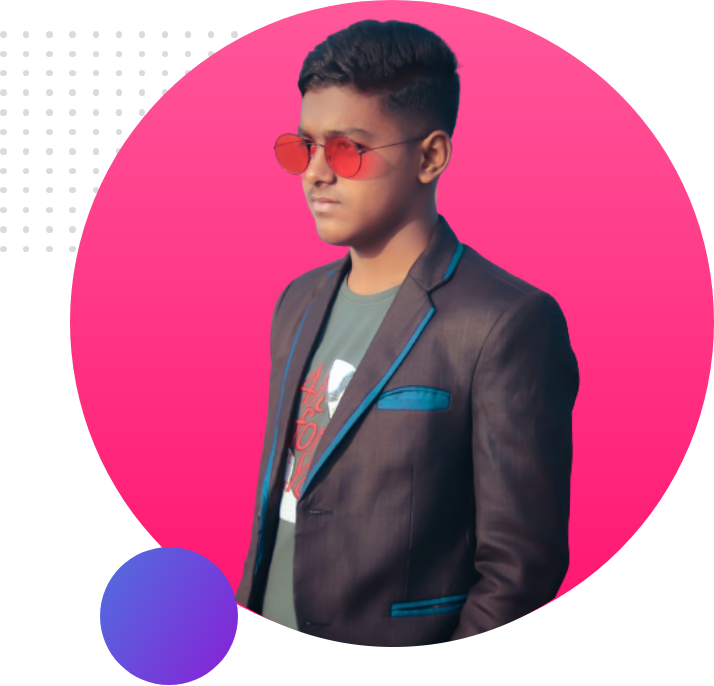
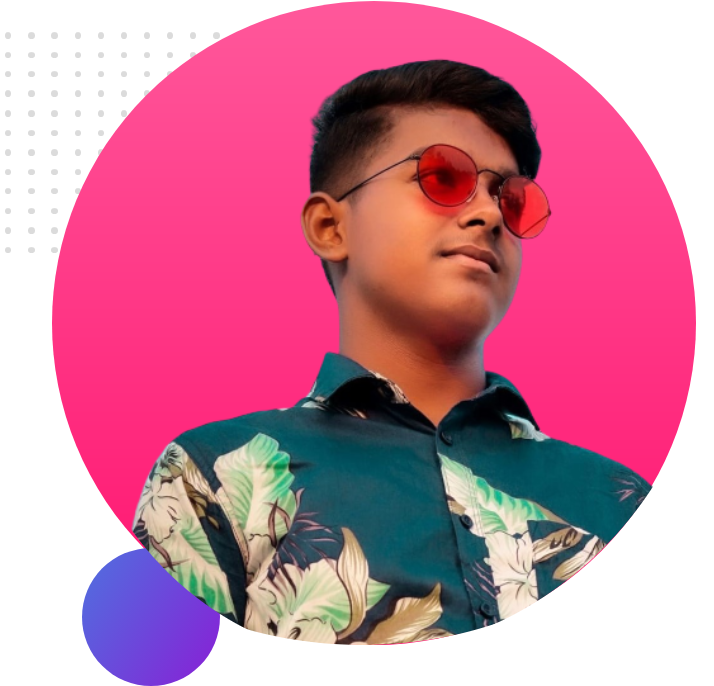
dream add

diff --git a/index.html b/index.html
@@ -20,5 +20,18 @@
        <img src="imges/ratul-1.png" alt="">
    </div>
 </section>
+<section class="Dream-Big">
+    <div class="right-sit-imge">
+        <img src="imges/ratul-2.png" alt="">
+
+    </div>
+    <div class="left-sit-contane">
+        <h2>Dream Big</h2>
+        <h3>Become a web developer</h3>
+        <p>I already learned the basic HTML and CSS. I can build any simple website. I can even teach my grandma how to make simple website. My goal is to build 3 websites and learn advanced topics.</p>
+        <a target="blank" class="button-hear" button-hear href="https://www.facebook.com/profile.php?id=100013660756008">DOWNLOAD RESUME</a>
+    </div>
+
+</section>
 </body>
 </html>

diff --git a/style.css b/style.css
@@ -5,14 +5,25 @@ body{
     font-weight: 400;
     margin: 0;
 }
+section{
+    margin-bottom: 150px;
+}
 .banner{
     overflow: hidden;
     background: url(imges/first-banner.png);
+    background-repeat: no-repeat;    
+}
+.Dream-Big{
+    overflow: hidden;
+    background: url(imges/secend-banner.png);
     background-repeat: no-repeat;
-    
+    background-position: right;
 }
 h1{
     font-size: 50px;
+}
+h2{
+    font-size: 40px;
 }
 .adbanc-color{
     color: orange;
